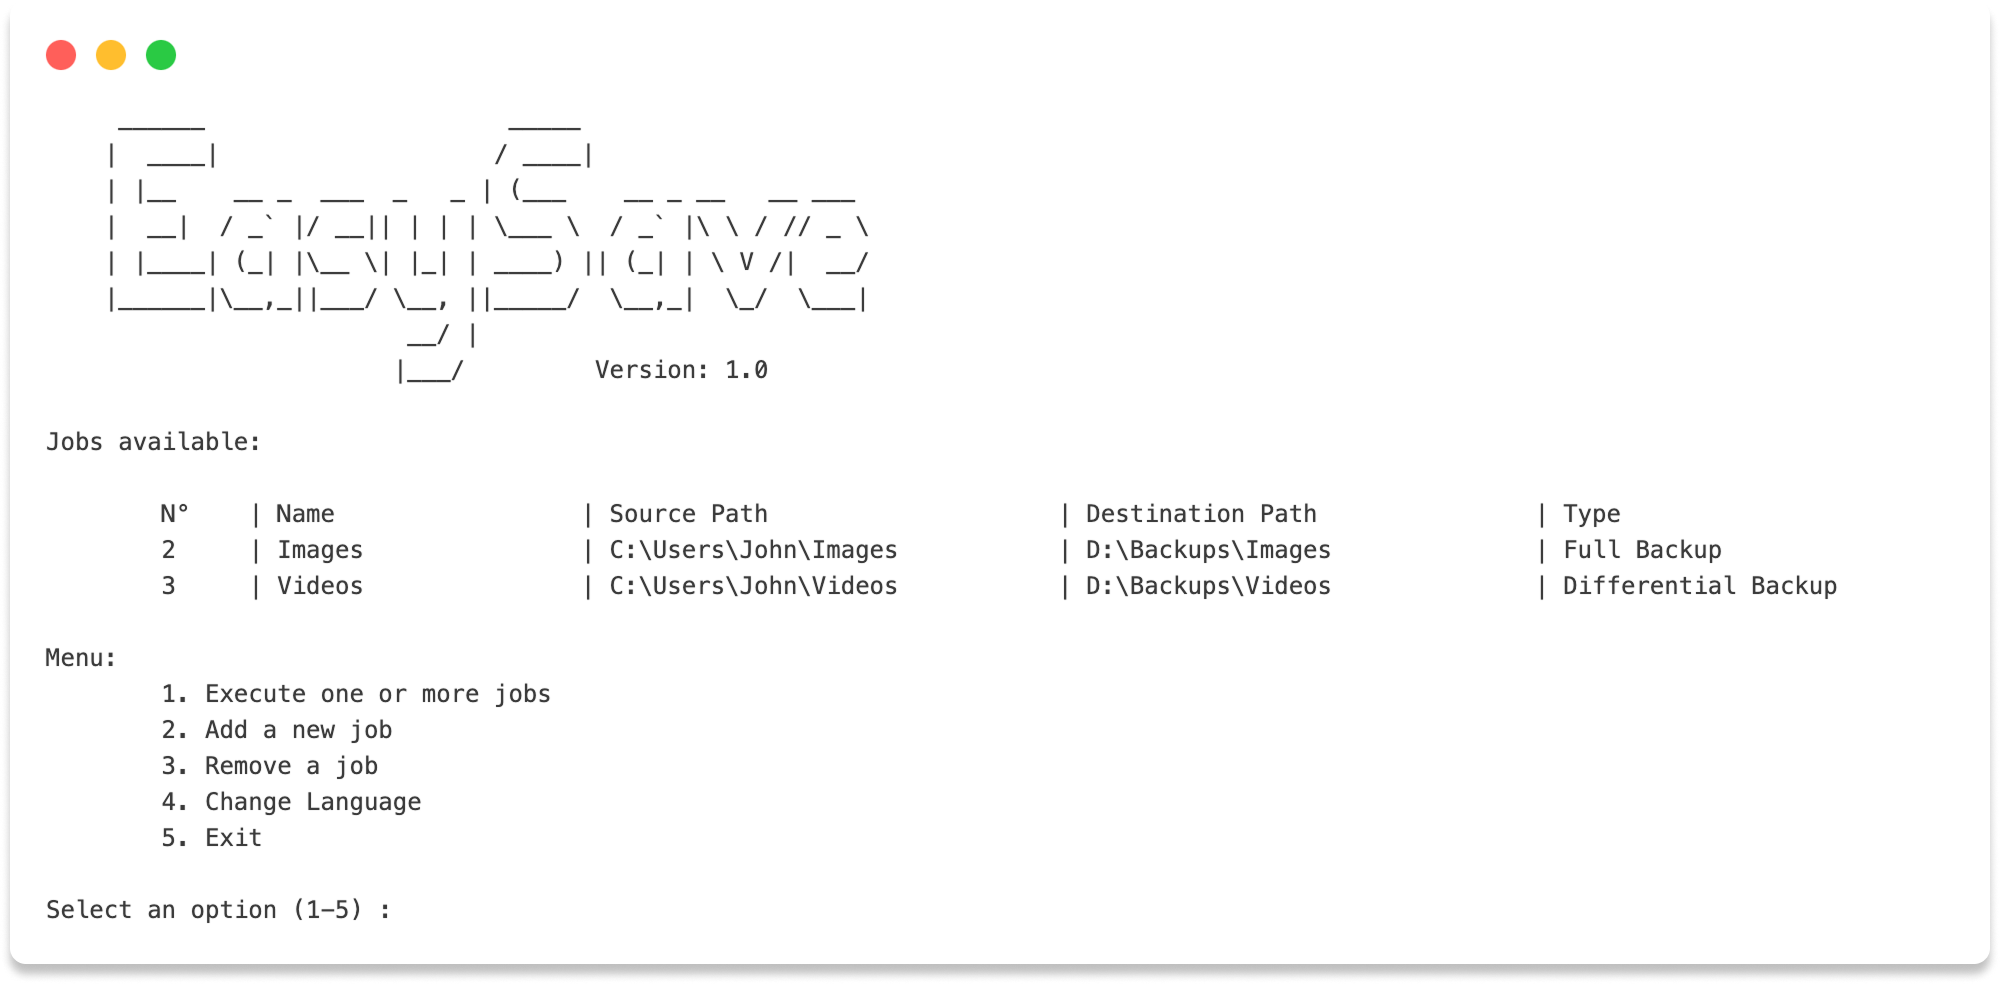
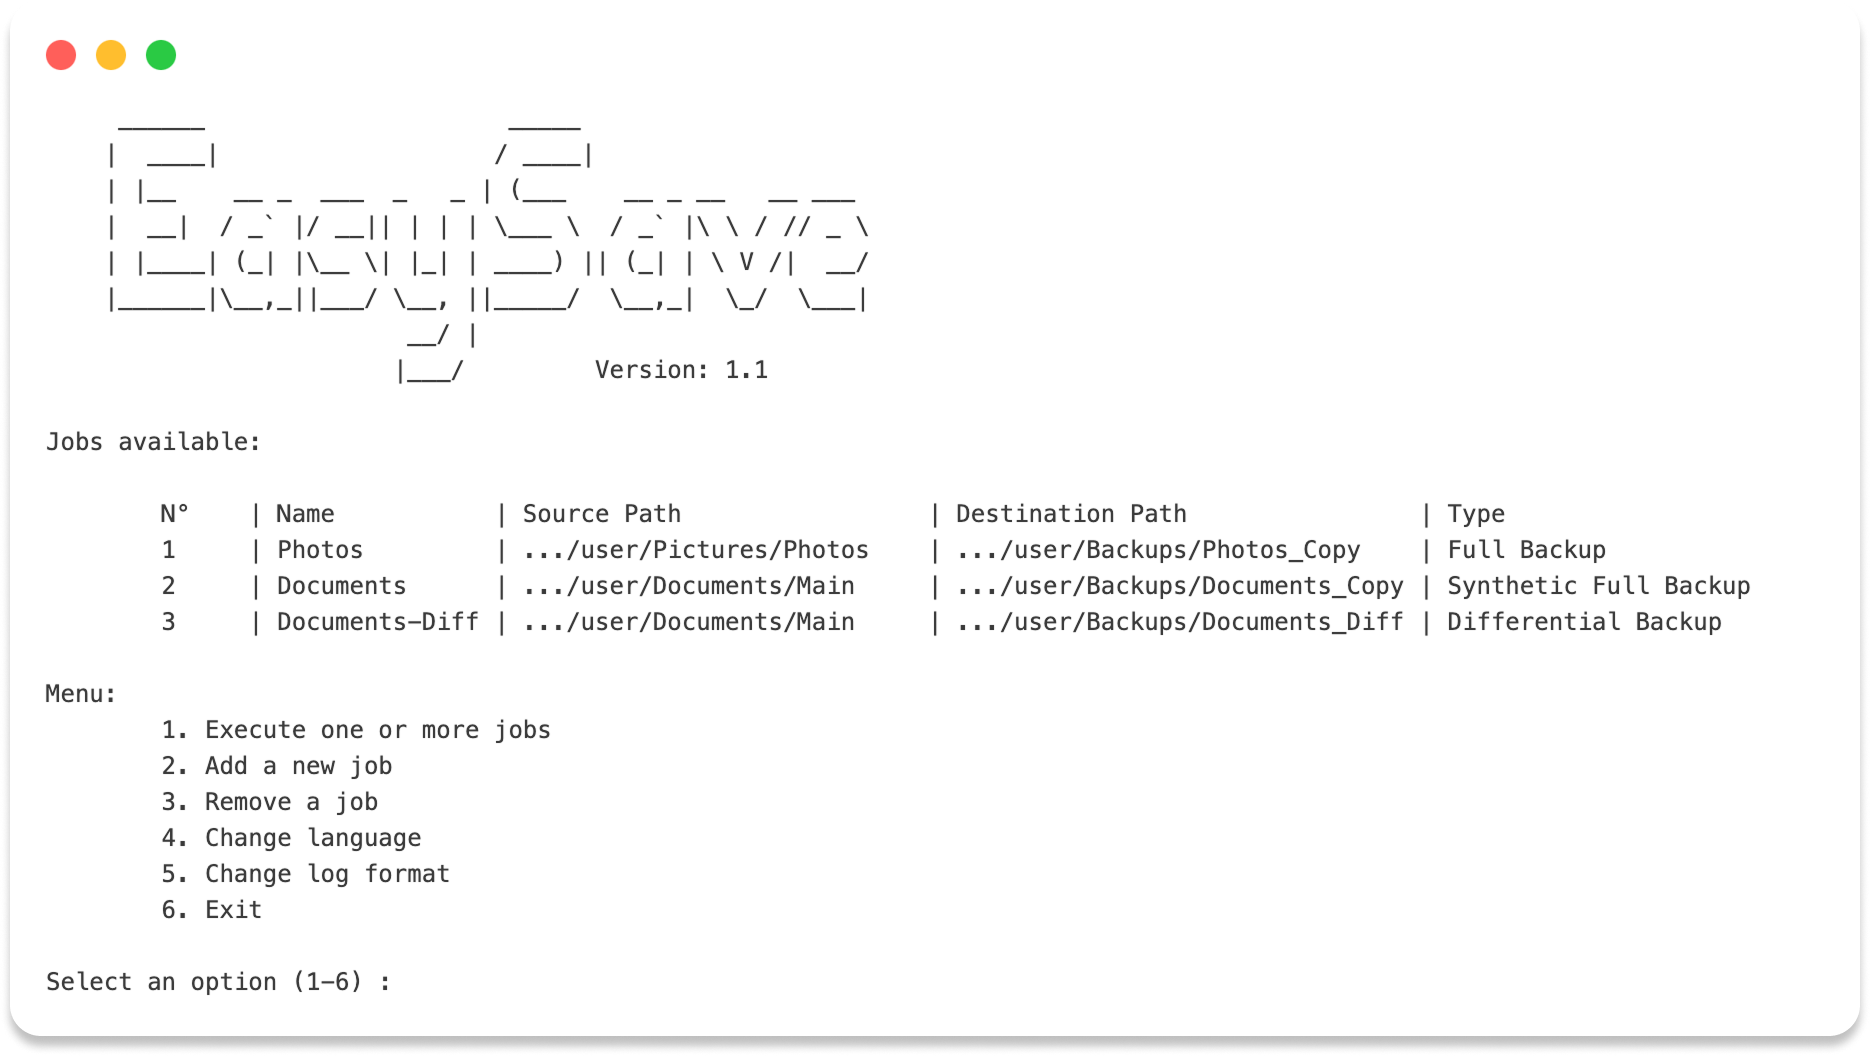
docs: updated user documentation

diff --git a/USER-GUIDE.md b/USER-GUIDE.md
@@ -3,8 +3,8 @@
 
 # 📘 **User Guide - EasySave**
 
-![Date](https://img.shields.io/badge/Date-2025_02_06-blue)
-![Version](https://img.shields.io/badge/Version-1.0-green)
+![Date](https://img.shields.io/badge/Date-2025_02_16-blue)
+![Version](https://img.shields.io/badge/Version-1.1-green)
 
 **Welcome to our user Wiki!** This document explains how to use our app.
 
@@ -18,7 +18,7 @@
 **EasySave** is a robust, multi-platform, console-based backup tool. It enables users to **create**, **manage**, and **execute** backup jobs with ease.
 Whether performing **full** or **differential** backups, EasySave ensures your data is securely backed up.
 
-<br/>
+You can **download** and **execute** the EasySave app from the following link: [EasySave v1.1 Release](https://github.com/CESI-Genie-logiciel-G4/EasySave/releases/tag/v1.1).
 
 ## **Main Features**
 
@@ -36,11 +36,13 @@ Using an interactive menu system, each action is selectable by entering its corr
 ### **Creating a Backup Job**
 A backup job is a named link between two **existing** files. Once created, it allows copying content from the source to the destination on demand.
 
-Two backup strategies are available:
+Three backup strategies are available:
 - **Full**: Recopies all files at each execution.
-- **Differential**: Copies only recently modified files.
+- **Synthetic Full**: Only new files are copied, creating a full backup by merging changes with the last 
+full backup.
+ **Differential**: Copies only new or modified files since the last full backup, saving them in a separate location.
 
-> **Limit**: The community version allows creating up to **5** backup jobs.
+> **Limit**: No limit on the number of backup jobs.
 
 <div align="center">
 
@@ -82,6 +84,8 @@ EasySave offers flexible management of backup jobs through simplified expression
 - Displays backup progress status.
 - Immediate indication of encountered errors.
 - Automatically generates logs in `.easysave/logs` within the executable directory.
+- Logs can be configured to output in `XML`, `JSON`, or `Console` format and are displayed in real-time in the interface.
+- All logs are journaled for persistent record-keeping.
 
 <br/>
 
@@ -91,7 +95,7 @@ The application is **bilingual** (French and English) and can be extended to oth
 <br/>
 
 ## **Need Help?**
-📌 Visit our **[GitHub](#)** or contact us on **LinkedIn** for further inquiries.
+📌 Visit our **GitHub** or contact us on **LinkedIn** for further inquiries.
 
 <br/>
 <br/>

diff --git a/README.md b/README.md
@@ -69,7 +69,7 @@
 
 Comprehensive user documentation is available to help you get started and understand the application's features.
 
-**User Guide**: Learn how EasySave efficiently.
+**User Guide**: Learn how to use EasySave and navigate the application's menu.
 
 **[Read the Full Documentation](./USER-GUIDE.md)**
 
@@ -78,9 +78,11 @@ Comprehensive user documentation is available to help you get started and unders
 
 ## 📦 Installation
 
-Ensure **.NET 9** is installed before running the application..  
-The **EasySave** solution consists of **multiple projects**:
+Download and execute the latest version of **EasySave** from the [EasySave v1.1 Release](https://github.com/CESI-Genie-logiciel-G4/EasySave/releases/tag/v1.1).
 
+If you are building from source, ensure **.NET 9** is installed before running the application.  
+
+The **EasySave** solution consists of **multiple projects**:
 
 ``` python
 EasySave/                # Main solution
